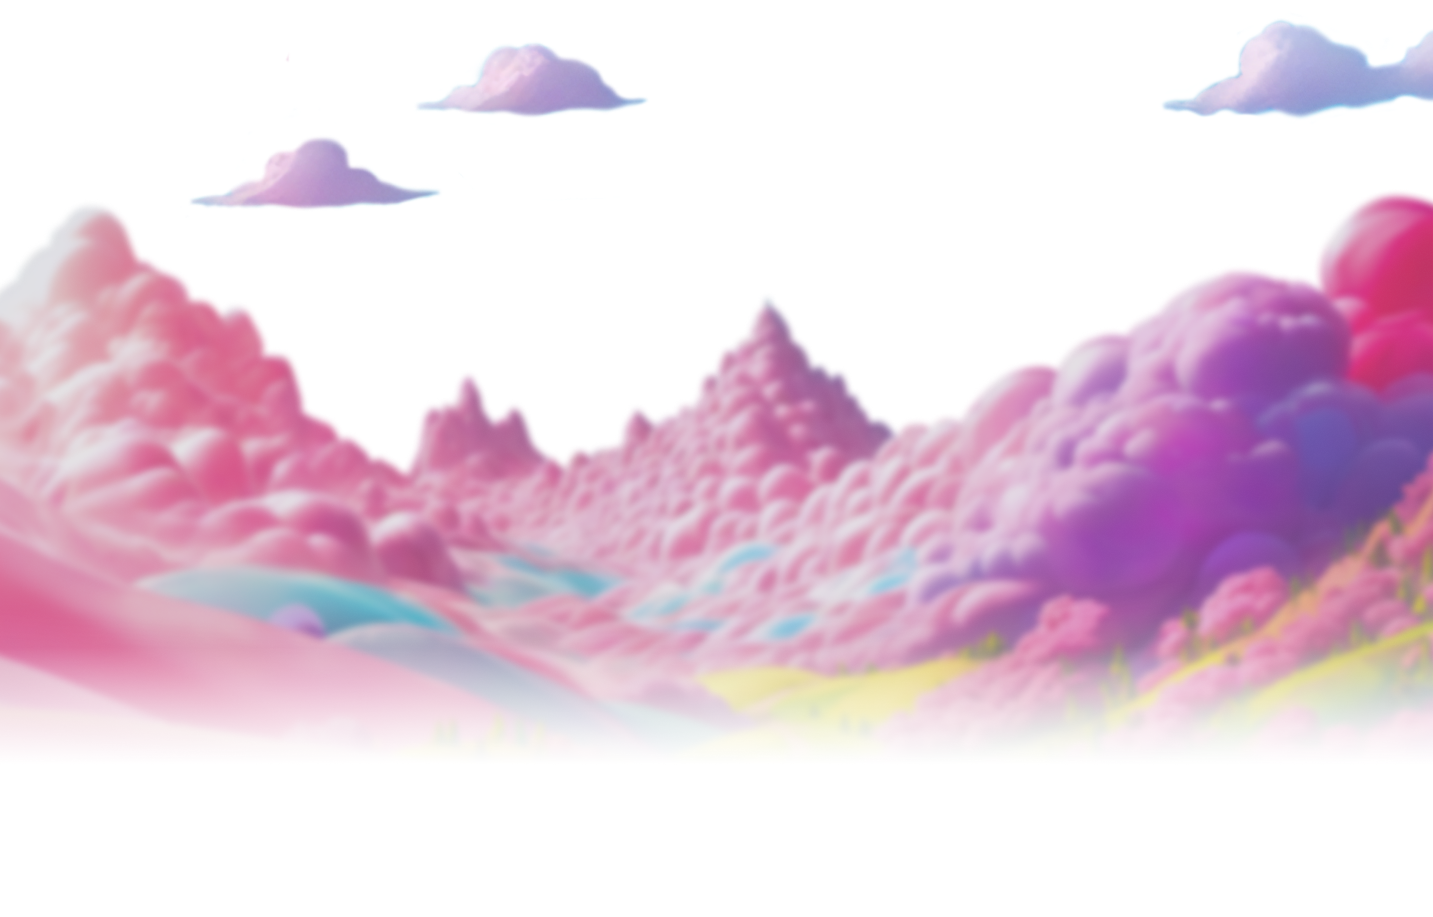
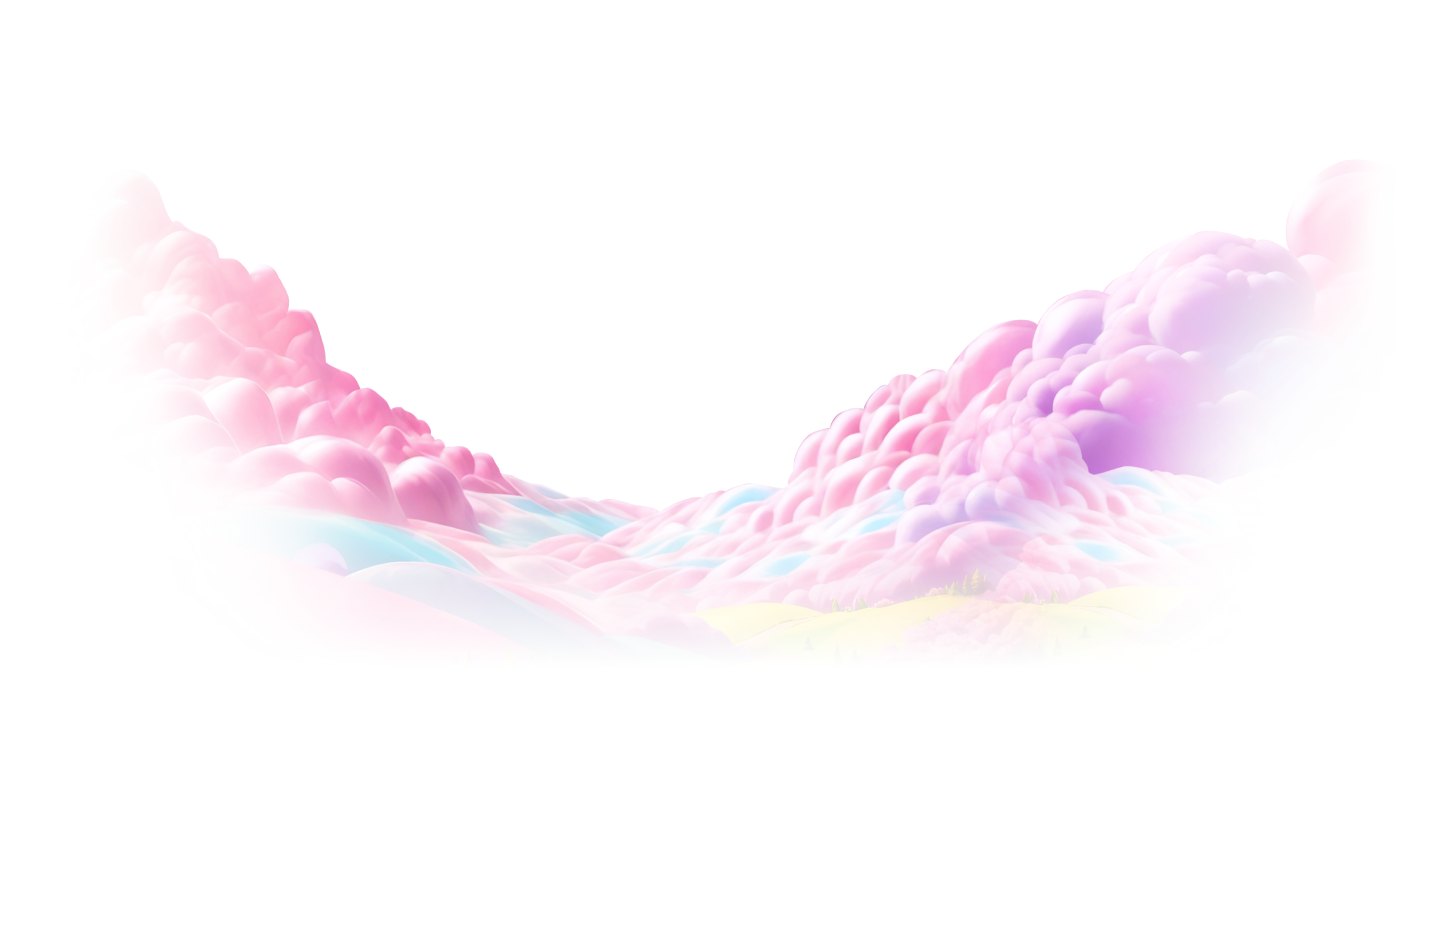
fuze fix

diff --git a/fuze.html b/fuze.html
@@ -164,7 +164,7 @@
             </div>
           </article>
         </div>
-        <a href="#" class="btn btn--primary" data-js-btn-flair>book a demo</a>
+        <a href="#" class="btn btn--primary" data-js-btn-flair>talk to us</a>
       </div>
     </article>
 
@@ -200,7 +200,7 @@
             </div>
           </article>
         </div>
-        <a href="#" class="btn btn--primary" data-js-btn-flair>book a demo</a>
+        <a href="#" class="btn btn--primary" data-js-btn-flair>talk to us</a>
       </div>
     </article>
 
@@ -280,7 +280,7 @@
           </article>
         </div>
 
-        <a href="#" class="btn btn--primary" data-js-btn-flair>book a demo</a>
+        <a href="#" class="btn btn--primary" data-js-btn-flair>talk to us</a>
       </div>
     </article>
 
@@ -338,64 +338,7 @@
           </article>
         </div>
 
-        <a href="#" class="btn btn--primary" data-js-btn-flair>book a demo</a>
-      </div>
-    </article>
-
-    <!-- Section 4: VIP & Lifetime Value -->
-    <article class="fuze-presentation__article fade-up stagger-1" id="vip" data-section="4" data-js-article hidden>
-      <div class="fuze-presentation__content">
-        <p class="c-eyebrow">VIP &amp; Lifetime Value</p>
-        <h3 class="fuze-presentation__heading">Turn everyday players into VIP and keep them playing longer</h3>
-        <p class="fuze-presentation__description">Since high-value players are built rather than born, Fuze&#8482; provides the personalized incentives and progression needed to nurture regular users into loyal, long-term VIPs.</p>
-        <figure class="fuze-presentation__media">
-          <img class="fuze-presentation__media-asset" src="assets/fuze/fuze-vip.png" alt="Fuze VIP product preview">
-        </figure>
-        <div class="card-grid">
-          <article class="card" data-name="Loyalty System" data-js-flip-card>
-            <div class="card__inner">
-              <div class="card__front">
-                <header class="card__header">
-                  <div class="card__heading-row">
-                    <h4 class="card__title">Loyalty System &ndash; Full Fuze&#8482; Stack</h4>
-                    <svg xmlns="http://www.w3.org/2000/svg" width="24" height="24" viewBox="0 0 24 24" fill="none" stroke="currentColor" stroke-width="1.5" stroke-linecap="round" stroke-linejoin="round" class="lucide lucide-circle-plus-icon lucide-circle-plus"><circle cx="12" cy="12" r="10"/><path d="M8 12h8"/><path d="M12 8v8"/></svg>
-                  </div>
-                  <p class="card__tags">Casino &middot; Sportsbook</p>
-                </header>
-                <article class="card__body">
-                  <img src="assets/svg/zap.svg" class="card__icon" alt="" />
-                  <p class="card__description">More bets per session as players chase progression milestones</p>
-                </article>
-              </div>
-              <div class="card__back">
-                <svg xmlns="http://www.w3.org/2000/svg" width="24" height="24" viewBox="0 0 24 24" fill="none" stroke="currentColor" stroke-width="1.5" stroke-linecap="round" stroke-linejoin="round" class="card__back-close lucide lucide-circle-minus"><circle cx="12" cy="12" r="10"/><path d="M8 12h8"/></svg>
-                <p>Unify all mechanics into a single gamified economy, where players cross-game rewards creating a continuous progression, engagement and VIP growth.</p>
-              </div>
-            </div>
-          </article>
-          <article class="card" data-name="VIP Progression & Exclusive Tournaments" data-js-flip-card>
-            <div class="card__inner">
-              <div class="card__front">
-                <header class="card__header">
-                  <div class="card__heading-row">
-                    <h4 class="card__title">VIP Progression &ndash; Exclusive Tournaments</h4>
-                    <svg xmlns="http://www.w3.org/2000/svg" width="24" height="24" viewBox="0 0 24 24" fill="none" stroke="currentColor" stroke-width="1.5" stroke-linecap="round" stroke-linejoin="round" class="lucide lucide-circle-plus-icon lucide-circle-plus"><circle cx="12" cy="12" r="10"/><path d="M8 12h8"/><path d="M12 8v8"/></svg>
-                  </div>
-                  <p class="card__tags">Casino &middot; Sportsbook</p>
-                </header>
-                <article class="card__body">
-                  <img src="assets/svg/zap.svg" class="card__icon" alt="" />
-                  <p class="card__description">Longer player lifecycles through progression-based engagement</p>
-                </article>
-              </div>
-              <div class="card__back">
-                <svg xmlns="http://www.w3.org/2000/svg" width="24" height="24" viewBox="0 0 24 24" fill="none" stroke="currentColor" stroke-width="1.5" stroke-linecap="round" stroke-linejoin="round" class="card__back-close lucide lucide-circle-minus"><circle cx="12" cy="12" r="10"/><path d="M8 12h8"/></svg>
-                <p>Reward top players with access to premium competitions. As they progress, they unlock exclusive tournaments and high-value rewards, reinforcing status and long-term engagement.</p>
-              </div>
-            </div>
-          </article>
-        </div>
-        <a href="#" class="btn btn--primary" data-js-btn-flair>book a demo</a>
+        <a href="#" class="btn btn--primary" data-js-btn-flair>talk to us</a>
       </div>
     </article>
 
@@ -514,7 +457,7 @@
       built around the player.<br>
       <span class="muted">smart where it matters.</span>
     </p>
-    <a href="#contact" class="btn btn--primary fade-up stagger-1" data-js-btn-flair data-js-scroll-to>book a demo</a>
+    <a href="#contact" class="btn btn--primary fade-up stagger-1" data-js-btn-flair data-js-scroll-to>talk to us</a>
   </div>
 </section>
 

diff --git a/css/fuze.css b/css/fuze.css
@@ -100,13 +100,18 @@
   display: block;
   height: 100%;
 }
+@media (min-width: 601px) {
+  .fuze-hero__media {
+    bottom: 0;
+  }
+}
 .fuze-hero {
   /* Desktop: full-height image, auto width to preserve aspect ratio */
 }
 .fuze-hero__image {
   display: block;
+  width: 100%;
   height: auto;
-  width: auto;
   object-fit: cover;
   object-position: bottom right;
 }
@@ -280,7 +285,7 @@
 }
 /* ==================== BIG IDEA ==================== */
 .big-idea {
-  padding: 0;
+  padding: 160px 0;
   background: var(--white);
   text-align: center;
 }
@@ -535,18 +540,25 @@
 }
 .fuze-presentation__media {
   display: block;
+  position: relative;
   width: fit-content;
   height: 60vh;
   margin: 0 auto var(--units-spacing-xl);
-  border-radius: 32px;
-  overflow: hidden;
-  background: var(--phone-screen-bg);
+}
+.fuze-presentation__media::after {
+  content: "";
+  position: absolute;
+  inset: -6px;
+  background: url("../assets/img/phone-mask.png") center/100% 100% no-repeat;
+  pointer-events: none;
+  z-index: 1;
 }
 .fuze-presentation__media-asset {
   display: block;
   width: auto;
   height: 100%;
   object-fit: cover;
+  border-radius: 42px;
 }
 @media (min-width: 901px) {
   .fuze-presentation {
@@ -682,7 +694,13 @@
   grid-auto-rows: 215px;
   gap: var(--units-spacing-lg);
   margin-bottom: var(--units-spacing-xl);
+  padding-top: 1rem;
   --selected-card-shadow: 0 0 14.5px 6px rgba(0, 22, 235, 0.10);
+}
+@media (min-width: 601px) {
+  .card-grid {
+    grid-template-columns: 1fr 1fr;
+  }
 }
 
 .card {

diff --git a/scss/fuze/_presentation.scss b/scss/fuze/_presentation.scss
@@ -40,12 +40,19 @@
 
   &__media {
     display: block;
+    position: relative;
     width: fit-content;
     height: 60vh;
     margin: 0 auto var(--units-spacing-xl);
-    border-radius: 32px;
-    overflow: hidden;
-    background: var(--phone-screen-bg);
+
+    &::after {
+      content: '';
+      position: absolute;
+      inset: -6px;
+      background: url('../assets/img/phone-mask.png') center / 100% 100% no-repeat;
+      pointer-events: none;
+      z-index: 1;
+    }
   }
 
   &__media-asset {
@@ -53,6 +60,7 @@
     width: auto;
     height: 100%;
     object-fit: cover;
+    border-radius: 42px;
   }
 
   @media (min-width: 901px) {

diff --git a/scss/fuze/_hero.scss b/scss/fuze/_hero.scss
@@ -81,13 +81,17 @@
       display: block;
       height: 100%;
     }
+
+    @media (min-width: 601px) {
+      bottom: 0;
+    }
   }
 
   /* Desktop: full-height image, auto width to preserve aspect ratio */
   &__image {
     display: block;
+    width: 100%;
     height: auto;
-    width: auto;
     object-fit: cover;
     object-position: bottom right;
   }

diff --git a/scss/fuze/_card.scss b/scss/fuze/_card.scss
@@ -6,8 +6,13 @@
   grid-auto-rows: 215px;
   gap: var(--units-spacing-lg);
   margin-bottom: var(--units-spacing-xl);
+  padding-top: 1rem;
 
   --selected-card-shadow: 0 0 14.5px 6px rgba(0, 22, 235, 0.10);
+
+  @media (min-width: 601px) {
+    grid-template-columns: 1fr 1fr;
+  }
 }
 
 .card {

diff --git a/scss/fuze/_big-idea.scss b/scss/fuze/_big-idea.scss
@@ -1,7 +1,7 @@
 /* ==================== BIG IDEA ==================== */
 
 .big-idea {
-  padding: 0;
+  padding: 160px 0;
   background: var(--white);
   text-align: center;
 
